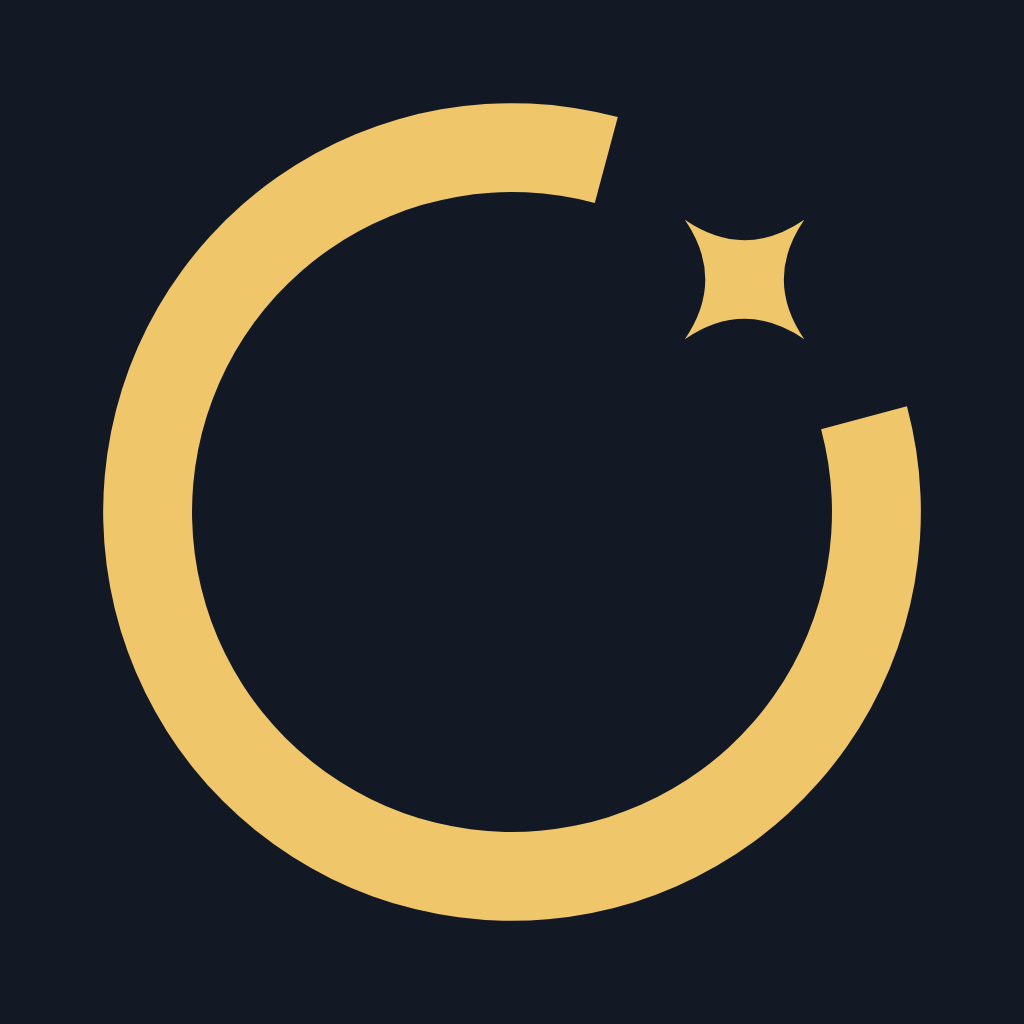
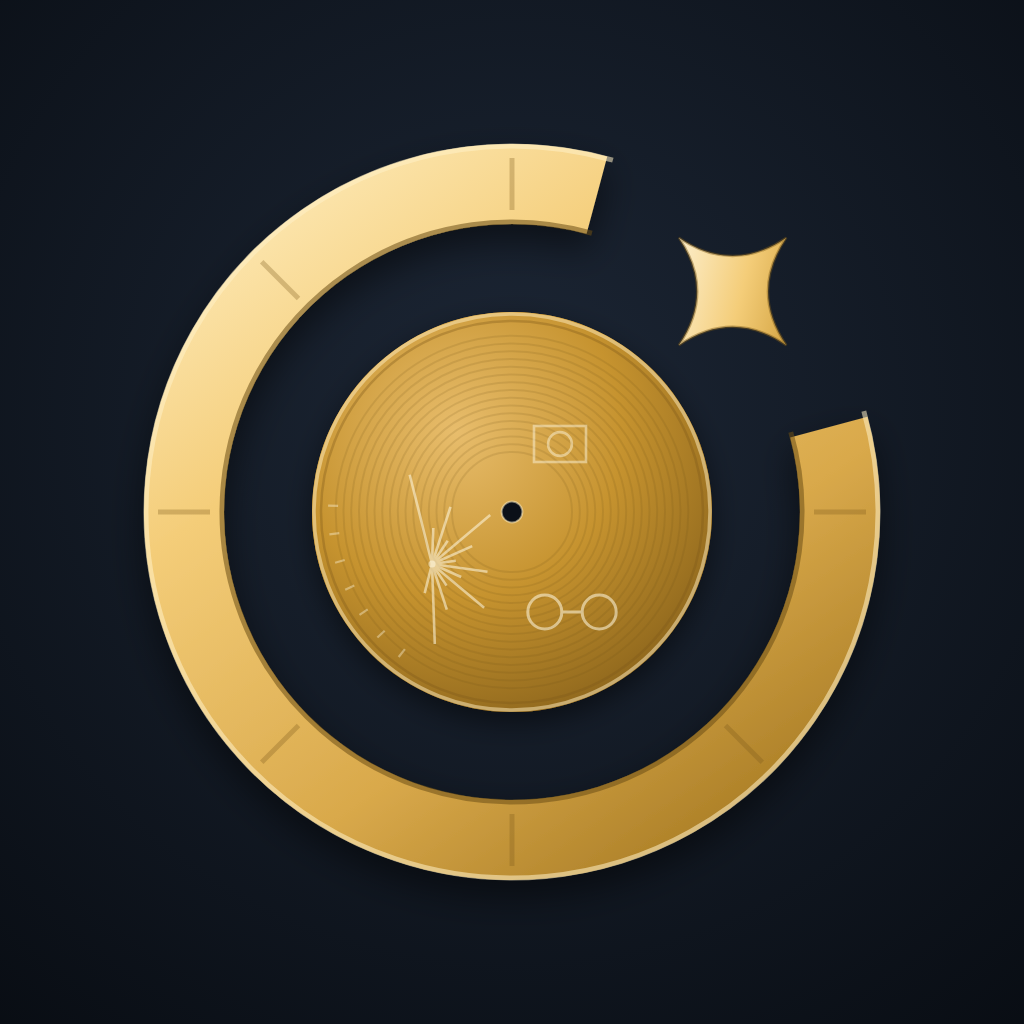
feat(client): 应用图标加入旅行者金唱片盘面
断环托星仍是最外层主形，环内嵌入金唱片：16 圈音槽、脉冲星图、
氢原子符号、播放示意图、二进制刻线与中心孔，配金属渐变与投影；
星定为 76 并居中于断口。盘面半径 200，比环内径小 88 以留暗色分离。

同步 app-icon.md 与 image-asset-index.md §2.5 的构图、画面基线与验收。

diff --git a/docs/current/technical/client/image-asset-index.md b/docs/current/technical/client/image-asset-index.md
@@ -70,22 +70,22 @@
 
 **页面位置**：`project.godot` 的 `config/icon` 指向 `res://icon.png`，只用于导出：macOS 与 iOS 的应用图标、主屏图标由 Godot 从这张图缩放生成；游戏内不渲染。
 
-**画面目的**：桌面与移动端主屏上的唯一识别图，需在 64×64 仍能认出「断环与星」。
+**画面目的**：桌面与移动端主屏上的唯一识别图，需在 64×64 仍能认出「断环、盘面与星」。
 
 **出图方式**：矢量源 `client/icon.svg` 渲染 1024×1024 后去 alpha，覆盖 `client/icon.png` 并随源提交；不再走 AI 出图。导出步骤与版本记录见[应用图标](app-icon.md)。
 
 **设计原则**（出图与验收共用）：
 
-1. **识别性优先**：唯一主形是断开的纪年环，断口内一颗四角星；断环读作 C。环占画面不小于 70%，64×64 缩略下星可退化为点，环的开口必须成立。
-2. **高对比、强轮廓**：只有深底与一个金色前景，大色块、无细线、无渐变；剪影本身成立。
+1. **识别性优先**：唯一外框主形是断开的纪年环，断口内一颗四角星；断环读作 C。环占画面不小于 70%，64×64 缩略下盘面细节可糊成金色纹理，环的开口与盘面的圆必须成立。
+2. **层次分明**：环最亮、盘面次之、底最暗，三段明度拉开；细线只作纹理，缩小后不能吃掉轮廓。允许金属渐变、投影与细线，用来出材质，不用来出语义。
 3. **无文字**：图标内不出现产品名、缩写或标语。
 4. **平台规范**：不自行绘制圆角、描边或投影，蒙版由系统裁切；正方形满幅、四边不留空白、无透明边缘。
-5. **品牌一致**：颜色取自 UITheme 语义颜色令牌（`color-bg` `#070a0f`、`color-surface-raised` `#121925`、`color-accent` `#f0c66b`、`color-accent-strong` `#b98a2f`、`color-star` `#ffe089`），与启动页、商店页保持同一套视觉。
+5. **品牌一致**：颜色取自 UITheme 语义颜色令牌（`color-bg` `#070a0f`、`color-surface-raised` `#121925`、`color-accent` `#f0c66b`、`color-accent-strong` `#b98a2f`、`color-star` `#ffe089`、`color-plate-ring` `#6d4a18`）；渐变与阴影只在令牌之间的金色与深蓝上提亮、压暗，不引入令牌之外的色相。
 6. **真实场景验证**：在 64×64 主屏缩略、深色壁纸与商店列表缩略尺寸下逐一确认。
 
-**画面基线**：`#121925` 平铺满幅，单色金色 `#f0c66b` 前景。一枚正圆环带在右上断开 60°，断口的两端为径向直切；断口中心悬一颗四角星，星尖朝断口外侧。环带外径 92、内径 72（256 网格），符号外接框约 816×816，四周各留约 104 安全边。无其他元素。
+**画面基线**：`#1c2635` → `#080c12` 的径向渐变铺满画幅。断环外径 368、内径 288（1024 网格），在右上（-45°）断开 60°，断口两端为径向直切；环面用金色渐变，外侧高光、内侧压暗，环上七条径向刻度。断口中心、半径 312 处一颗半径 76 的四角星。环内一张半径 200 的金唱片盘面，比环内径小 88 以留出暗色间隙，盘面用更暗的金渐变以区分层次；盘上有 16 圈同心音槽、脉冲星图、氢原子符号、播放示意图、七条二进制刻线与中心孔。符号外接框约 776×776，四周各留约 124 安全边。无文字。
 
-**出图记录**：矢量源 `client/icon.svg`，2026-11-26 重做；版本与未采用方向见[应用图标](app-icon.md)。
+**出图记录**：矢量源 `client/icon.svg`，2026-11-26 重做为金唱片版；版本与未采用方向见[应用图标](app-icon.md)。
 
 **出图要求**：1024×1024 正方形、RGB（无 alpha）、满幅无空白、无文字；符号落在 80% 安全区内，缩小时环的开口仍成立。重出后按下方渠道表导出，iOS 营销图标不复用带 alpha 的图。
 

diff --git a/docs/current/technical/client/app-icon.md b/docs/current/technical/client/app-icon.md
@@ -7,10 +7,11 @@
 
 ## 1. 构图
 
-- 深色底 `#121925`（`color-surface-raised`）铺满画布，金色 `#f0c66b`（`color-accent`）单色前景。
-- 主形是一枚断开的纪年环，断口朝右上，断口内悬一颗四角星。断环本身读作 C（Civilization 的首字母）。
-- 符号外接框约 816×816，四周各留约 104 安全边，落在 iOS 圆角蒙版的 80% 安全区内。
-- 无文字、无渐变、无描边、无投影、无细线；缩到 32px 仍读作「C + 点」。
+- 深色圆角背景：径向渐变 `#1c2635`（中心）→ `#080c12`（边缘），色相取 `color-surface-raised` 系。
+- 主形是一枚断开的纪年环，断口朝右上（-45°，张开 60°），断口内悬一颗四角星。断环本身读作 C（Civilization 的首字母）。
+- 环内嵌一张旅行者金唱片盘面，取封面上的识别元素：同心音槽、脉冲星图、氢原子符号、播放示意图、二进制刻线与中心孔。盘面比环内径小 88，两者之间留暗色间隙，断环仍是最外层的框。
+- 环带外径 368、内径 288（1024 网格），盘面半径 200，星半径 76、位于半径 312 处。符号外接框约 776×776，四周各留约 124 安全边，落在 iOS 圆角蒙版的 80% 安全区内。
+- 无文字。渐变与投影只用于材质与层次，不承载语义。
 
 ## 2. 导出
 
@@ -26,22 +27,25 @@ ffmpeg -y -i icon-rgba.png -pix_fmt rgb24 client/icon.png
 
 ## 3. 验收
 
-- 64×64 主屏缩略下能认出断环与星；32×32 仍能读出 C 形开口；16×16 允许星退化为点，环形必须成立。
-- 单色版成立：黑色符号放在白底、白色符号放在 `#070a0f` 底都不丢失轮廓。
+- 64×64 主屏缩略下能认出断环、盘面与星；32×32 仍能读出 C 形开口与盘面的圆。
+- 盘面细节（音槽、脉冲星图、氢原子符号、播放示意图、刻线）在 64 以下允许糊成金色纹理，但不能让整体变成一块金色圆饼；环与盘之间必须留出暗色分离。
 - 深色壁纸与商店列表缩略下逐一看过；满幅无空白、无透明边缘、无文字。
+- 单色版不再适用：本版带渐变与阴影，商店与导出渠道统一使用彩色源图，不再提供单色剪影。
 
 ## 4. 版本记录
 
 | 版本 | 日期 | 内容 | 结果 |
 | --- | --- | --- | --- |
-| v1 断环托星 | 2026-11-26 | 矢量重做：断环 + 四角星，深底金色 | 当前成品 |
+| v2 断环托星 · 金唱片 | 2026-11-26 | 环内嵌唱片盘面（音槽、脉冲星图、氢原子符号、播放示意图、刻线、中心孔），加金属渐变与投影；星定为 76 并居中断口 | 当前成品 |
+| v1 断环托星 | 2026-11-26 | 矢量重做：断环 + 四角星，深底平铺单色金 | 已替换；用户反馈「太素」 |
 | 前代 v16 | 2026-11-25 | AI 出图：金唱片 + 七时代环 + 战旗，`gpt-image-2.5` 参考图编辑 | 已替换；提示词与逐版记录见 git 历史 |
 
 ## 5. 未采用方向
 
-同期出过两版矢量稿，保留为改版备选，未进入仓库：
+同期出过若干备选，保留为改版参考，未进入仓库：
 
 - **六边之核**：六边形晶格环包围核心，16px 最稳，但六边形在科技类标识中过于常见。
 - **纪元螺旋**：等距螺旋，时代推进语义直接，但 16px 内圈会糊，且需把描边转成填充轮廓。
+- **大盘唱片**：盘面放大到 206 并整体提亮，最接近真唱片，但盘与环明度接近，32px 下容易连成一块。
 
-改版时优先在当前断环结构上调整断口角度、环宽与星的大小，不重新引入细节层次。
+改版时优先在当前断环结构上调整断口角度、环宽、盘径与星的大小；盘面元素只增删不重排。
